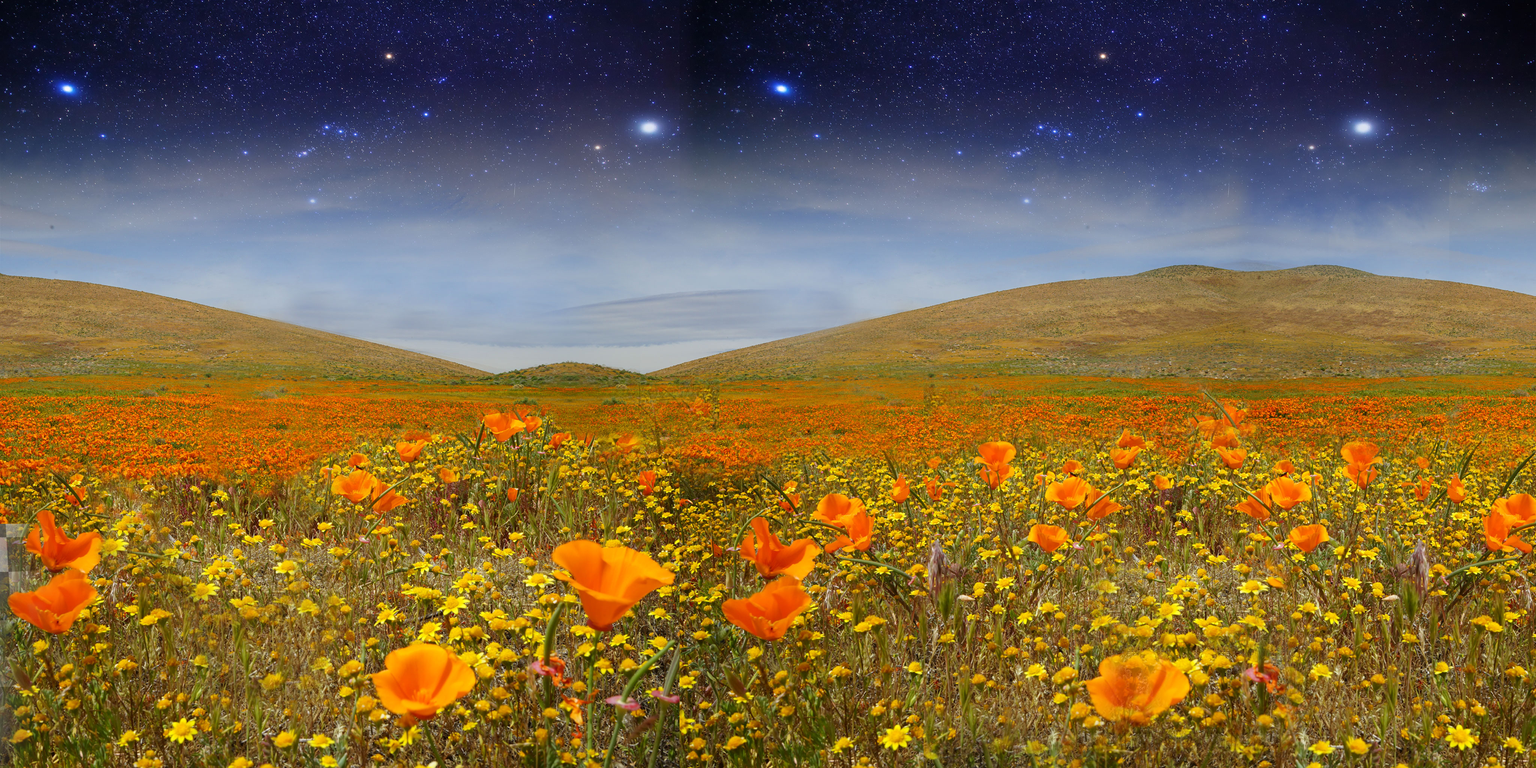
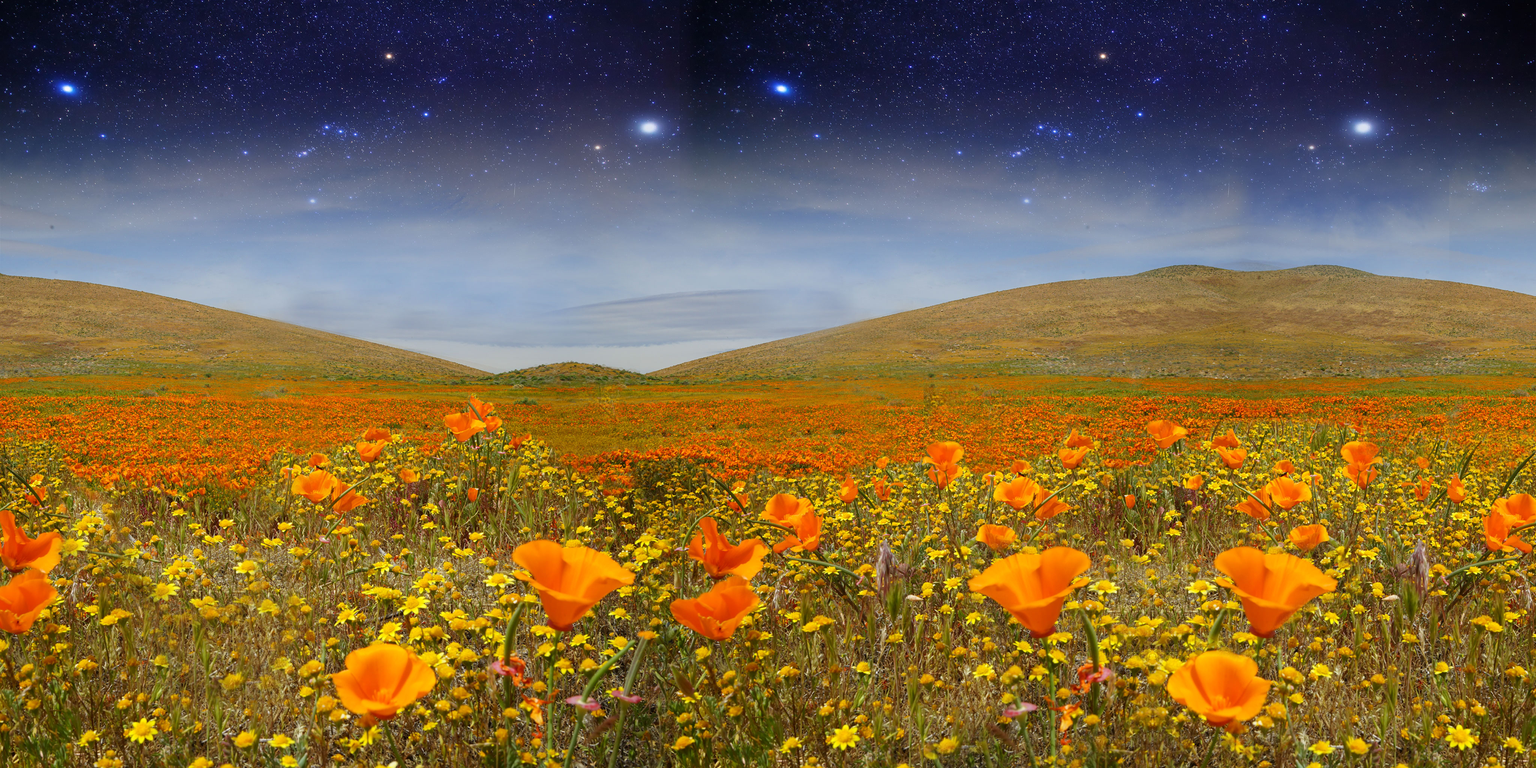
lights

diff --git a/index.vr.js b/index.vr.js
@@ -7,17 +7,53 @@ import {
   View,
   Plane,
   Cylinder,
-  AmbientLight,
+  PointLight,
+  Image,
+  Sphere,
 } from 'react-vr';
 
 export default class RaignVR extends React.Component {
   render() {
     return (
       <View>
+        <Pano source={asset('raign_background.jpg')}lit={true}/>
+
+        <PointLight 
+          angle={ 15  } 
+          distance ={25} 
+          decay ={2} 
+          intensity = {2}
+          penumbra = {50}
+          style={{
+              transform: [{translate: [0, 0, -4]}],
+              color:"#e5d510"
+            }}
+            wireframe={true}
+          />
+
+
+        <Sphere
+          radius={0.5}
+          widthSegments={20}
+          heightSegments={20}
+          lit={true}
+          style={{
+              transform: [{translate: [0, 0, -5]}],
+              color:"#e5d510"
+            }}
+        />
+
+        <Image 
+        source={asset('chair.png')}
+          style={{
+            width: 1, height: 1,
+            opacity:.999,
+            transform: [{translate: [0, 2, -10]}],
+          }}/>
         <Plane
           dimWidth={10}
           dimHeight={14}
-          lit={false}
+          lit={true}
           style={{
             opacity:.999,
             transform: [{translate: [0, 0, -20]}],
@@ -26,20 +62,42 @@ export default class RaignVR extends React.Component {
         />
 
         <Plane
+          dimWidth={10}
+          dimHeight={14}
+          lit={true}
+          style={{
+            opacity:.999,
+            transform: [{translate: [-10, 0, -20]}],
+          }}
+          texture={asset('chair.png')}
+        />
+
+        <Plane
+          dimWidth={10}
+          dimHeight={14}
+          lit={true}
+          style={{
+            opacity:.999,
+            transform: [{translate: [10, 0, -20]}],
+          }}
+          texture={asset('chair.png')}
+        />
+
+        <Plane
           dimWidth={9}
           dimHeight={10}
-          lit={false}
+          lit={true}
           style={{
             opacity:.999,
             transform: [{translate: [1, -1, -19]}],
           }}
           texture={asset('rachel.png')}
         />
-        <AmbientLight intensity={ 1 }  />
+        
         <Plane
           dimWidth={10}
           dimHeight={3}
-          lit={false}
+          lit={true}
           style={{
             opacity:.999,
             transform: [{translate: [0, 7, -17]}],
@@ -53,12 +111,42 @@ export default class RaignVR extends React.Component {
           dimHeight={20}
           segments={100}
           lit={true}
+          side={'DoubleSide'}
           texture={asset('foreground.png')}
           style={{
                     opacity:.999,
-                    transform: [{translate: [0, 0, -10]}],
+                    transform: [{translate: [0, 0, 0]}],
                   }}
         />
+
+        <Image
+          style={{
+            opacity:.999,
+            transform: [{translate: [0, 0, -20]}],
+          }}
+          source={asset('chair.png')}
+        />
+        <Plane
+          dimWidth={10}
+          dimHeight={14}
+          lit={true}
+          style={{
+            opacity:.999,
+            transform: [{translate: [0, 0, -20]}],
+          }}
+          texture={asset('chair.png')}
+        />
+
+        <Text
+          style={{
+            fontSize: 0.2,
+            layoutOrigin: [0, 0.5],
+            textAlign: 'center',
+            textAlignVertical: 'center',
+            transform: [{translate: [0, 1, -1]}],
+          }}>
+          View Tracks
+        </Text>
 
       </View>
     );
